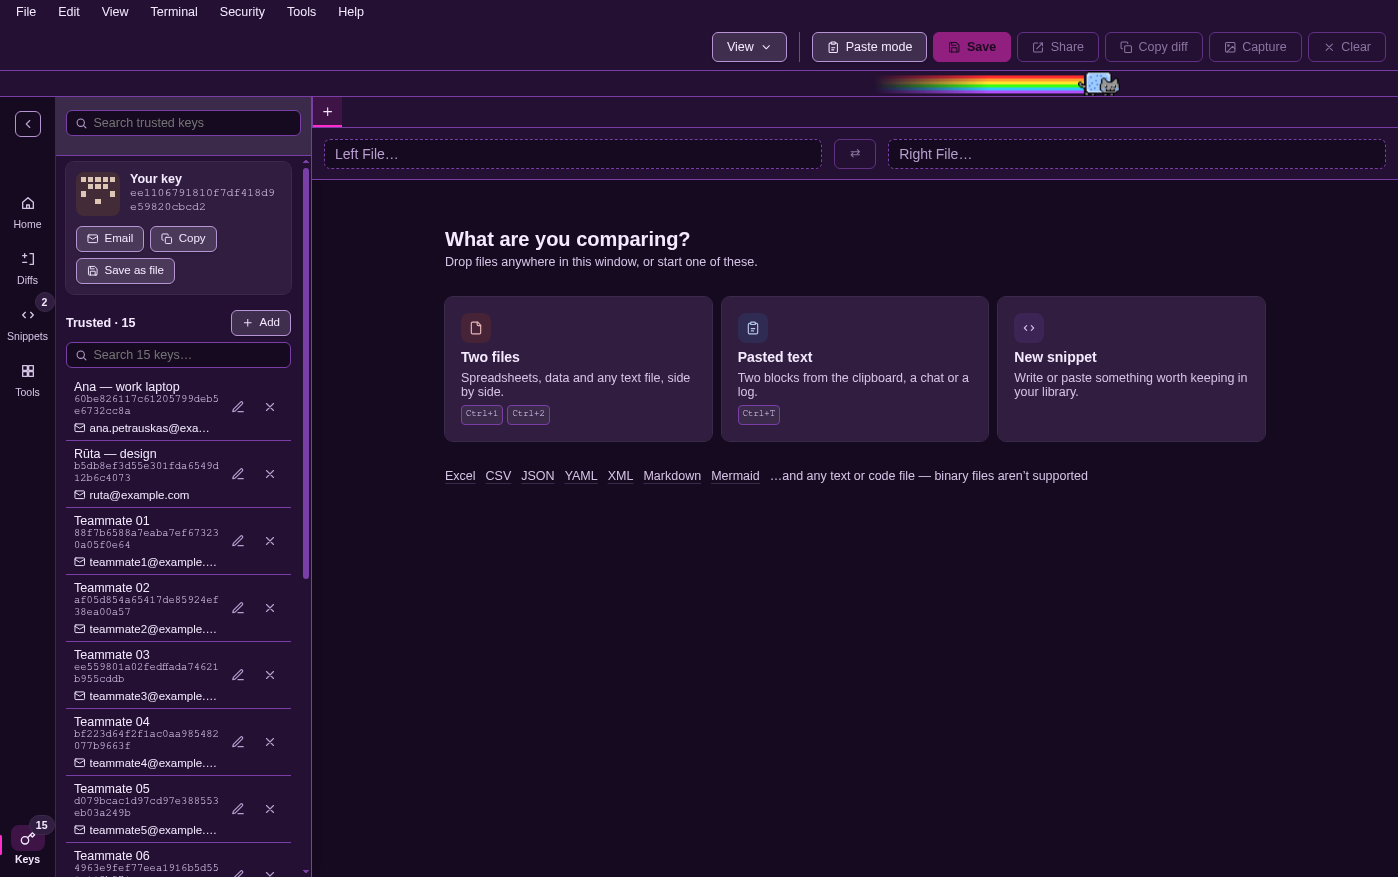
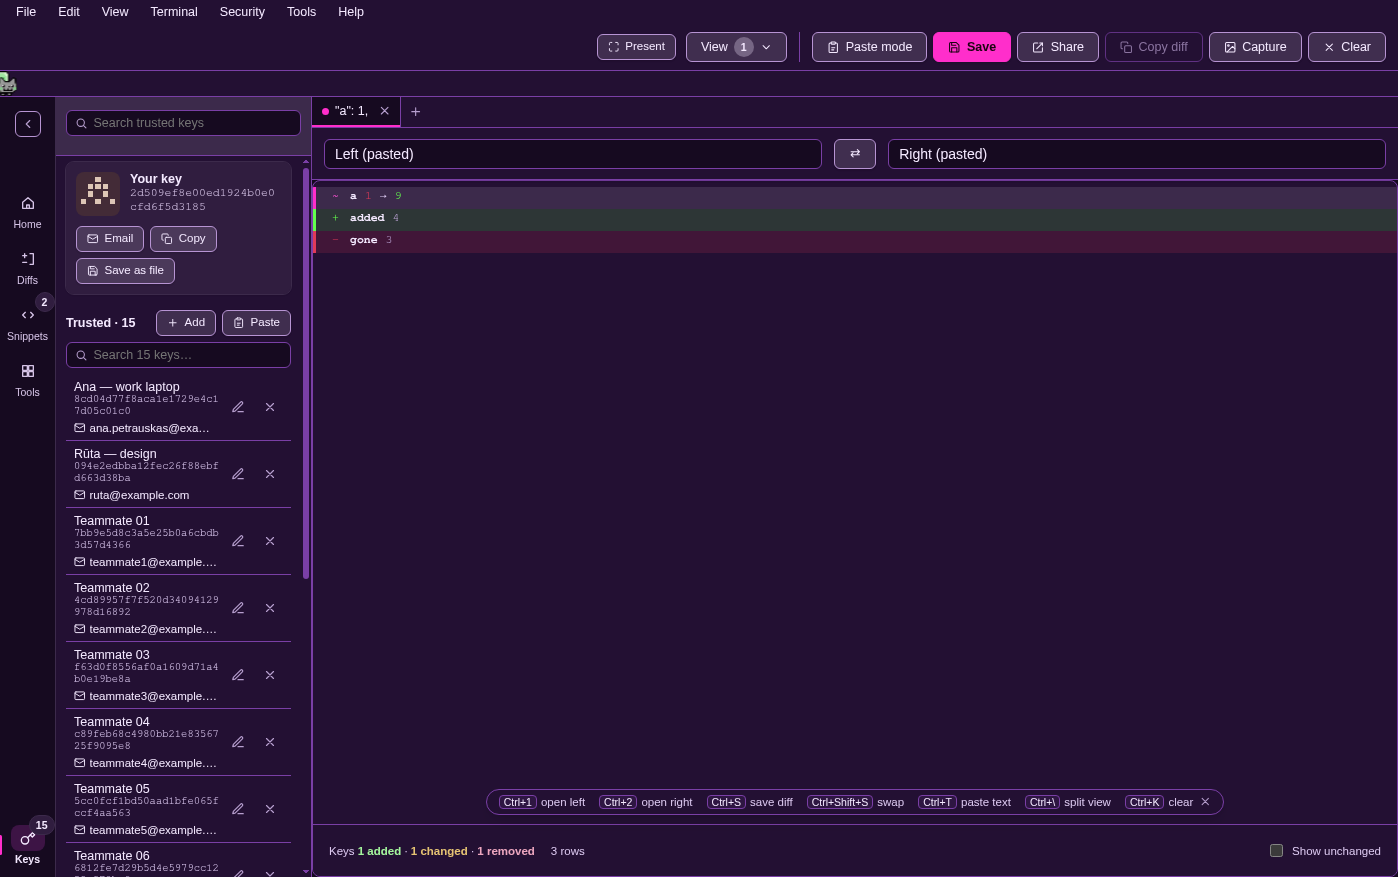
feat(keys): Paste key adds a public key copied as text (#88)
A key copied out of a chat app could only be added if "+ Add" happened to
peek it; with no key on the clipboard it fell straight to a file picker,
so pasting was never offered as a choice. Paste sits beside Add in the
Keys panel and the share dialog's add-their-key step. It goes through the
same naming and confirm dialog, and says so when the clipboard holds no
key, or holds your own.

diff --git a/tests/renderer/features/share/shareStore.test.js b/tests/renderer/features/share/shareStore.test.js
@@ -210,3 +210,32 @@ describe('shareStore.addTrustedKey — clipboard peek', () => {
     expect(window.api.addTrustedKey).toHaveBeenCalled()
   })
 })
+
+describe('shareStore.pasteTrustedKey', () => {
+  it('offers a clipboard key through the naming dialog', async () => {
+    window.api = {
+      peekClipboardKey: vi
+        .fn()
+        .mockResolvedValue({ ok: true, key: { sign: 's' }, fingerprint: 'fp', defaultLabel: 'Ana' })
+    }
+    const share = useShareStore()
+    await share.pasteTrustedKey()
+    expect(share.pendingTrustedKey).toMatchObject({ fingerprint: 'fp', source: 'clipboard' })
+  })
+
+  it('says so when the clipboard holds no key, and opens no picker', async () => {
+    window.api = {
+      peekClipboardKey: vi.fn().mockResolvedValue({ error: 'no-key' }),
+      addTrustedKey: vi.fn()
+    }
+    await useShareStore().pasteTrustedKey()
+    expect(notices()).toMatch(/doesn't hold a public key/)
+    expect(window.api.addTrustedKey).not.toHaveBeenCalled()
+  })
+
+  it('names your own key as yours', async () => {
+    window.api = { peekClipboardKey: vi.fn().mockResolvedValue({ error: 'own-key' }) }
+    await useShareStore().pasteTrustedKey()
+    expect(notices()).toMatch(/your own/i)
+  })
+})

diff --git a/src/renderer/src/features/share/components/KeysPanel.vue b/src/renderer/src/features/share/components/KeysPanel.vue
@@ -49,6 +49,15 @@ onMounted(async () => {
         <button type="button" class="btn btn-sm" @click="share.addTrustedKey()">
           <AppIcon name="plus" />{{ $t('keysPanel.add') }}
         </button>
+        <button
+          type="button"
+          class="btn btn-sm"
+          :aria-label="$t('keysPanel.pasteKey')"
+          :data-tip="$t('keysPanel.pasteTip')"
+          @click="share.pasteTrustedKey()"
+        >
+          <AppIcon name="clipboard" />{{ $t('keysPanel.paste') }}
+        </button>
       </div>
       <TrustedKeyList :query="search" />
     </section>
@@ -65,6 +74,15 @@ onMounted(async () => {
         </button>
         <button type="button" class="btn btn-sm" @click="share.addTrustedKey()">
           <AppIcon name="plus" />{{ $t('keysPanel.addTheirKey') }}
+        </button>
+        <button
+          type="button"
+          class="btn btn-sm"
+          :aria-label="$t('keysPanel.pasteKey')"
+          :data-tip="$t('keysPanel.pasteTip')"
+          @click="share.pasteTrustedKey()"
+        >
+          <AppIcon name="clipboard" />{{ $t('keysPanel.paste') }}
         </button>
       </div>
     </section>

diff --git a/src/renderer/src/features/share/keyExchangeActions.js b/src/renderer/src/features/share/keyExchangeActions.js
@@ -29,6 +29,18 @@ export const keyExchangeActions = {
     else if (res?.error) diff.showNotice(t('shareNotices.keyEmailFailed'))
   },
 
+  // Asked for outright, so a miss is said aloud rather than opening a file picker.
+  async pasteTrustedKey() {
+    const peeked = await window.api.peekClipboardKey()
+    if (peeked?.ok) {
+      this.pendingTrustedKey = pendingFrom(peeked, 'clipboard')
+      return
+    }
+    const diff = useDiffStore()
+    if (peeked?.error === 'own-key') diff.showNotice(t('shareNotices.thatsYourOwnKey'))
+    else diff.showNotice(t('shareNotices.noKeyOnClipboard'))
+  },
+
   // Pick a key, clipboard first: a key copied out of a chat app is offered —
   // through the same confirm — before the file picker opens. Every peek miss
   // (junk, empty, your OWN key just copied to send) falls through silently.

diff --git a/src/renderer/src/features/share/components/ShareDiffDialog.vue b/src/renderer/src/features/share/components/ShareDiffDialog.vue
@@ -155,6 +155,9 @@ function submit() {
           </i18n-t>
         </span>
       </div>
+      <button type="button" class="btn btn-sm" @click="share.pasteTrustedKey()">
+        {{ $t('keysPanel.pasteKey') }}
+      </button>
       <button type="button" class="btn btn-sm btn-primary" @click="share.addTrustedKey()">
         {{ $t('share.diffDialog.addTheirKey2') }}
       </button>

diff --git a/src/renderer/src/features/share/components/styles/KeysPanel.css b/src/renderer/src/features/share/components/styles/KeysPanel.css
@@ -49,8 +49,13 @@
 .trusted-head {
   display: flex;
   align-items: center;
-  justify-content: space-between;
+  gap: var(--space-2);
   margin-bottom: var(--space-2);
+}
+.trusted-head h3 {
+  flex: 1;
+  min-width: 0;
+  white-space: nowrap;
 }
 h3 {
   margin: 0;
